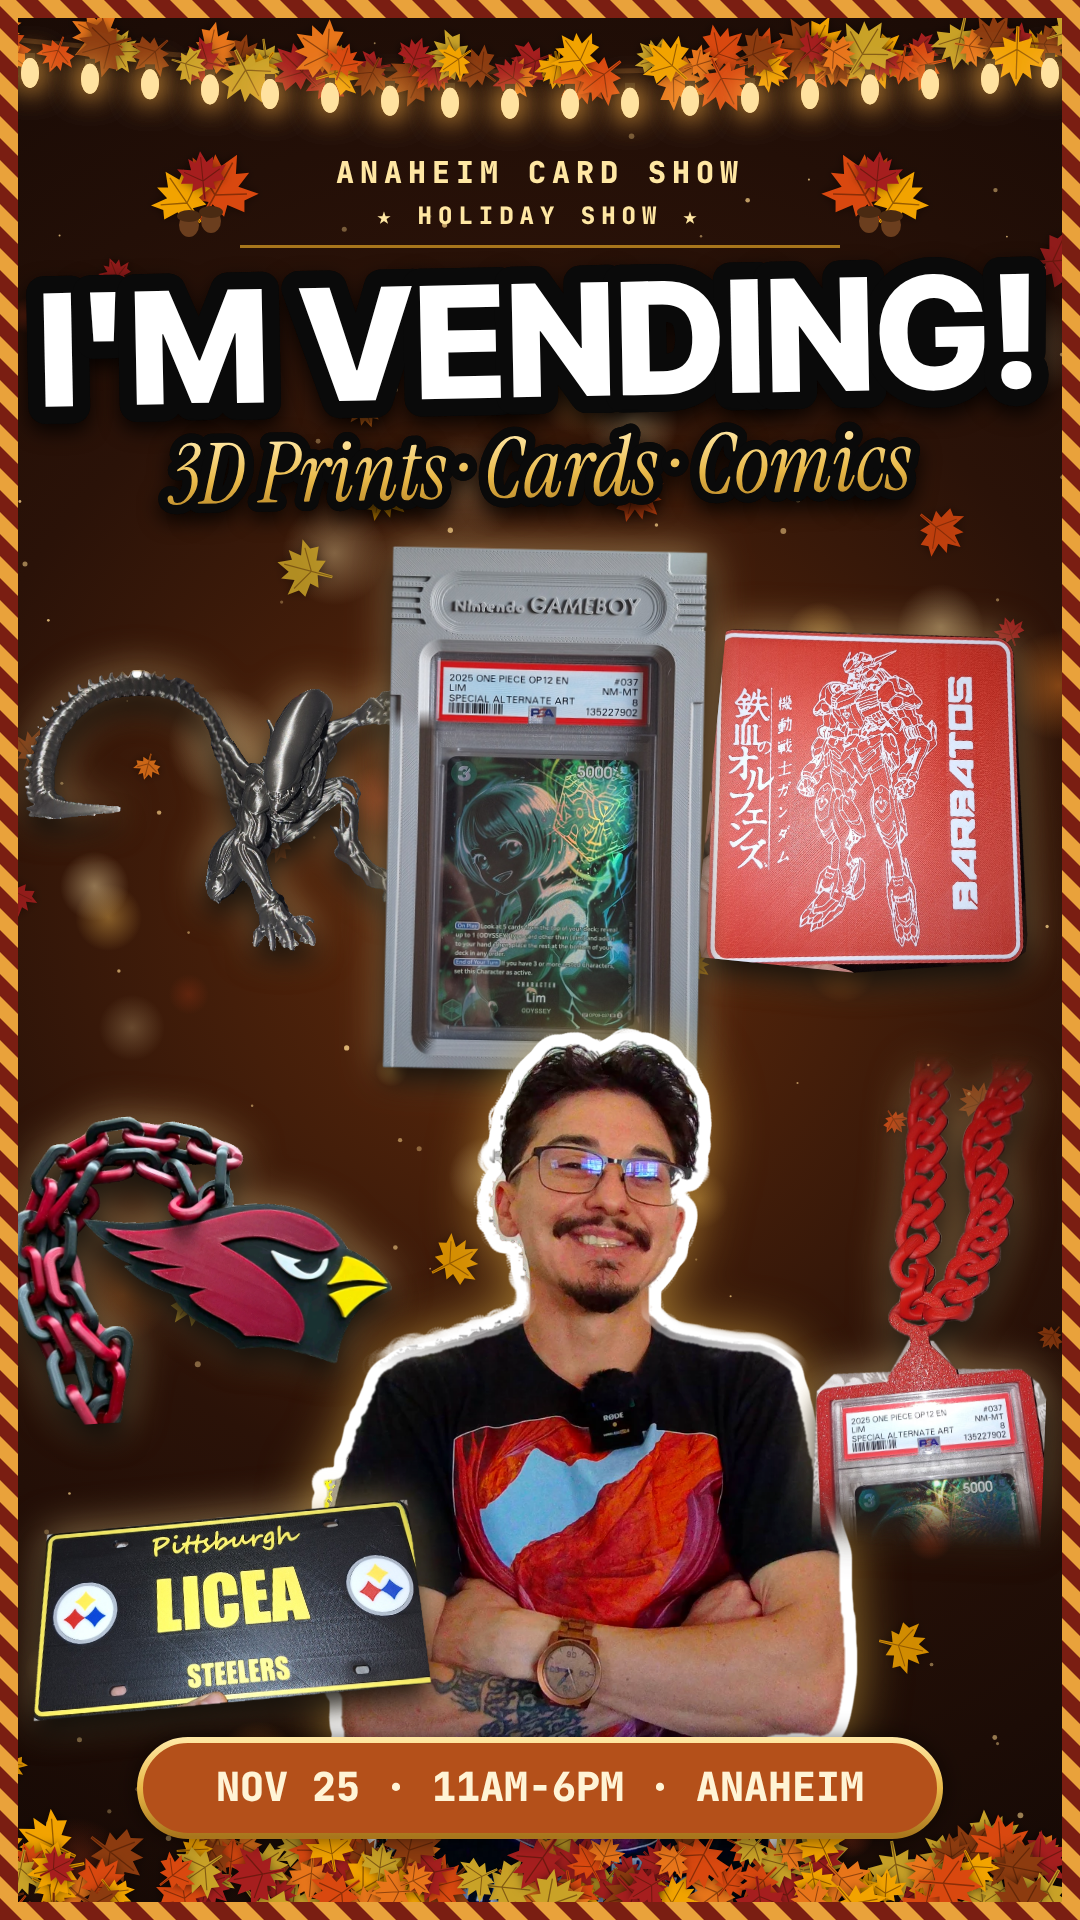
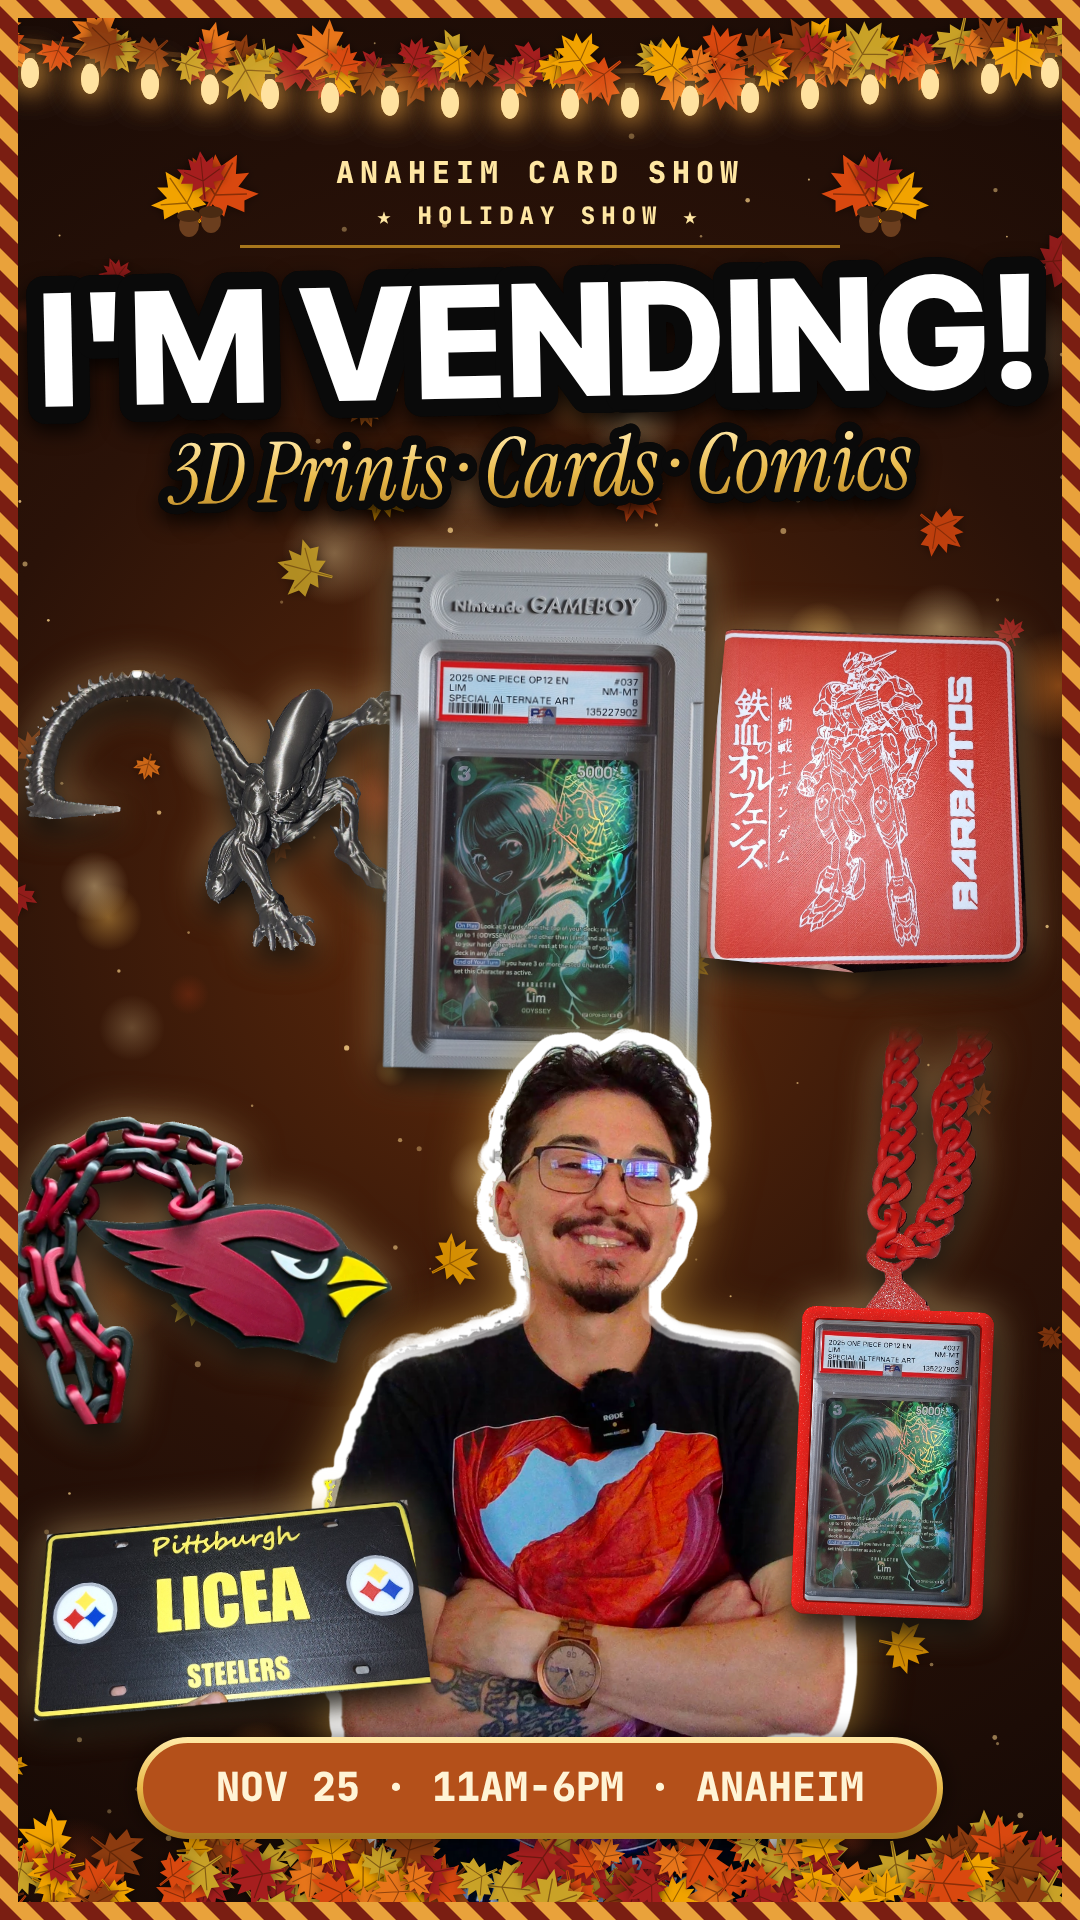
Card show vertical: full chain card holder (rebuilt slab bottom)
Claude-Session: https://claude.ai/code/session_01NSJvdmHsHoazKiuuGVQfMY

Changed region(s): [[0.7028, 0.5312, 0.9778, 0.875]]

diff --git a/story/cardshow/thumb_vertical.html b/story/cardshow/thumb_vertical.html
@@ -33,7 +33,7 @@ let DATES;
   for (let i = 0; i < 34; i++) { const x = rnd() * W, y = 260 + rnd() * (H - 400); leaf(x, y, 16 + rnd() * 20, rnd() * TAU, FALL[i % FALL.length], 0.85); }
   for (let i = 0; i < 120; i++) { const x = rnd() * W, y = rnd() * H, r = 0.8 + rnd() * 2.2; c.fillStyle = `rgba(255,215,140,${0.3 + rnd() * 0.5})`; c.beginPath(); c.arc(x, y, r, 0, TAU); c.fill(); }
   // ---- products: background-removed cutouts with a warm glow
-  const P = {}; for (const n of ['gameboy','alien','barbatos','cardinal','psa','steelers','psa_fade']) P[n.replace('_fade','f')] = await img('c_' + n + '.png');
+  const P = {}; for (const n of ['gameboy','alien','barbatos','cardinal','psa','steelers','psa_full']) P[n.replace('_full','f')] = await img('c_' + n + '.png');
   const item = (im, x, y, w, rot) => { const h = w * im.height / im.width; c.save(); c.translate(x, y); c.rotate(rot);
     c.shadowColor = 'rgba(255,220,150,0.55)'; c.shadowBlur = 40; c.drawImage(im, -w / 2, -h / 2, w, h);
     c.shadowColor = 'rgba(0,0,0,0.8)'; c.shadowBlur = 26; c.shadowOffsetY = 16; c.drawImage(im, -w / 2, -h / 2, w, h); c.restore(); };
@@ -62,7 +62,7 @@ let DATES;
   c.save(); c.shadowColor = 'rgba(233,185,73,0.6)'; c.shadowBlur = 50; c.drawImage(off, 0, 0); c.restore(); c.drawImage(me, px, py, pw, ph);
 
   // items over the elbows
-  item(P.psaf, 935, 1300, 230, 0.04);
+  item(P.psaf, 930, 1320, 255, 0.04);
   item(P.steelers, 225, 1610, 400, -0.08);
   // leaf pile along the bottom
   for (let i = 0; i < 140; i++) { const x = rnd() * W, y = 1845 + rnd() * 70; leaf(x, y, 22 + rnd() * 18, rnd() * TAU, FALL[i % FALL.length]); }
